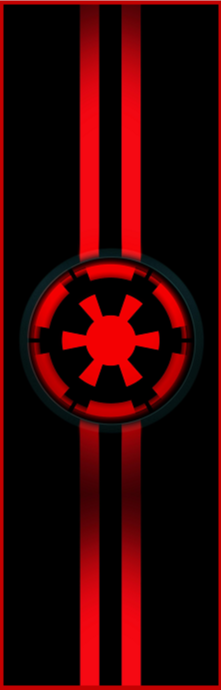
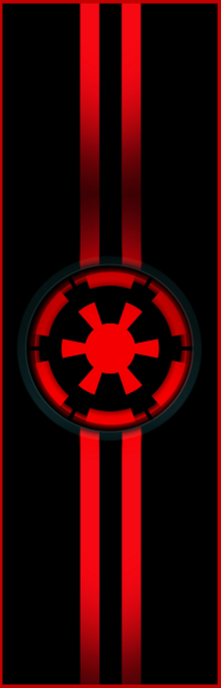
Final (ish) product

Changed region(s): [[0.0, 0.0, 1.0, 1.0], [0.8959, 0.4578, 0.9231, 0.4884]]

diff --git a/css/styles.css b/css/styles.css
@@ -1,4 +1,5 @@
-
+/* I had to redesign my flexboxes and grids to make it so the works was being done by them. There were a few alignment issues because of this. 
+ i adjusted the way i measured the columns and rows and it fixed the issues. I also added responsiveness. */
 #grid-container {
     display: grid; 
     justify-content: space-between;
@@ -101,10 +102,6 @@
     padding:10px;
 }
 
-/* iframe > .hidden-video{
-    display: flex;
-} */
-
 .link {
     color: #284c72;
     cursor: pointer;
@@ -133,4 +130,70 @@
   .dropdown:hover .dropdown-content {
     display: block;
   }
+  @media screen and (max-width: 768px) {
+    /* Make the grid layout stack in a single column */
+    #grid-container {
+        grid-template-columns: 1fr;  /* Single column layout for mobile */
+        grid-template-rows: auto auto auto auto;
+    }
+
+    /* Make the images smaller */
+    #bannar, #bannar2 {
+        max-height: 400px;
+    }
+
+    #ganda {
+        width: 100%;
+        height: auto;
+    }
+
+    /* Adjust font sizes */
+    h1, h2, h3 {
+        font-size: 1.5em;  /* Scale down the text on smaller screens */
+    }
+
+    .dropdown-content {
+        min-width: 100%;  /* Full-width dropdown on mobile */
+    }
+
+    /* Stacked navigation links */
+    #grid-menu {
+        text-align: center;
+    }
+
+    /* Hide banners on smaller screens (optional) */
+    #grid-left-banner, #grid-right-banner {
+        display: none;
+    }
+
+    /* Adjust the main container to be more mobile-friendly */
+    #container {
+        padding: 15px;
+    }
+
+    /* Adjust button styles */
+    #themeChange {
+        width: 100%;
+        padding: 15px;
+        font-size: 1em;
+    }
+
+    /* Popup styles */
+    .popup-content {
+        width: 90%;
+        max-width: 600px;
+        margin: auto;
+    }
+}
+
+/* Further adjustments for very small screens (extra small devices like phones in portrait mode) */
+@media screen and (max-width: 480px) {
+    h1 {
+        font-size: 1.2em;
+    }
+
+    #logo {
+        height: 100px;  /* Smaller logo for small screens */
+    }
+}
   

diff --git a/css/theme.css b/css/theme.css
@@ -1,0 +1,51 @@
+ /* Under suggestions for the new css file "Dark Mode" was a suggestion. so I decided to do a "Dark
+  Side Mode!" It was really fun to change the whole color sceme as well as which images are shown. */
+ #grid-menu {
+    background-color: rgba(49, 49, 49, 0.205);
+ }
+
+ #grid-bottom {
+    background-color: rgba(34, 34, 34, 0.205);
+ }
+
+ #container {
+    background-color: rgb(36, 35, 35);
+ }
+
+ body {
+    background-color: #000000; /* Dark grey */
+    color: rgb(202, 13, 13); /* Optional: Change text color to white for better contrast */
+}
+
+.hidden {
+    border: 1px solid black;
+    background-color: #2e2c2ce3;
+    background-color: rgba(0, 0, 0, 0.7);  
+}
+
+.popup-content {
+    background-color: #000000;
+    border: 1px solid #ad0000;
+}
+
+.close {
+    color: #ad0000;
+}
+
+.close:hover,
+.close:focus {
+    color: black;
+}
+
+.link {
+    color: #ad0000;
+}
+
+.link:hover {
+    color: #000000;
+}
+
+
+.dropdown-content {
+    background-color: #0c0c0c;
+}

diff --git a/index.html b/index.html
@@ -2,9 +2,10 @@
 <html lang="en">
 
 <head>
-    <link rel="stylesheet" href="styles.css">
+    <link rel="stylesheet" href="css/styles.css">
     <link href="https://fonts.googleapis.com/css2?family=Orbitron&display=swap" rel="stylesheet">
     <meta charset="UTF-8">
+    <meta name="viewport" content="width=device-width, initial-scale=1">
     <title>Recruitment office</title>
 </head>
     <body> 
@@ -21,7 +22,7 @@
                     <h2>Republic </h2>
     
                 </header>
-                <button id="themeChange">Hit here for Empire</button>
+                <button id="themeChange">toggle</button>
             </div>
             <div id="grid-right-banner">
                 <img src="banner.PNG" id="bannar" alt="Republic Banner" height="700" justify="right">
@@ -129,3 +130,4 @@
         <script src="js/script.js"></script>
     </body>
 </html>
+

diff --git a/js/script.js b/js/script.js
@@ -38,7 +38,7 @@ window.onclick = function(event) {
 
 document.getElementById("themeChange").addEventListener("click", function() {
 
-    toggleStylesheet("theme.css");
+    toggleStylesheet("css/theme.css");
     //insert 'link' element into head just below styles.css reference
   })
   
